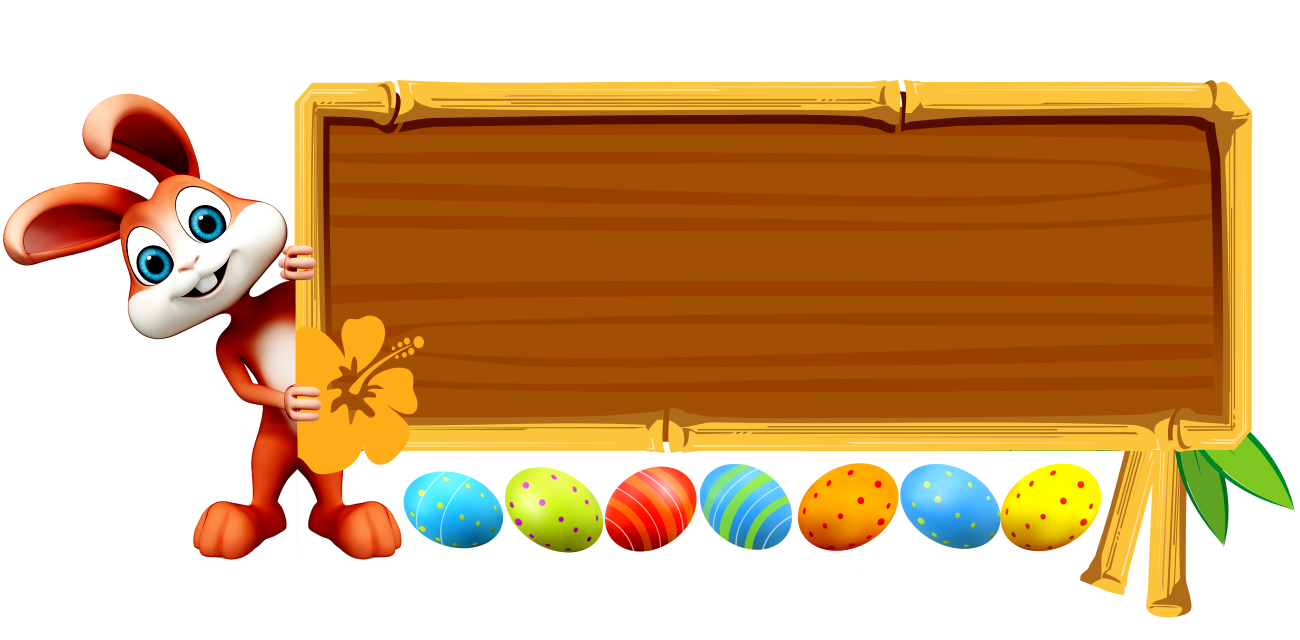
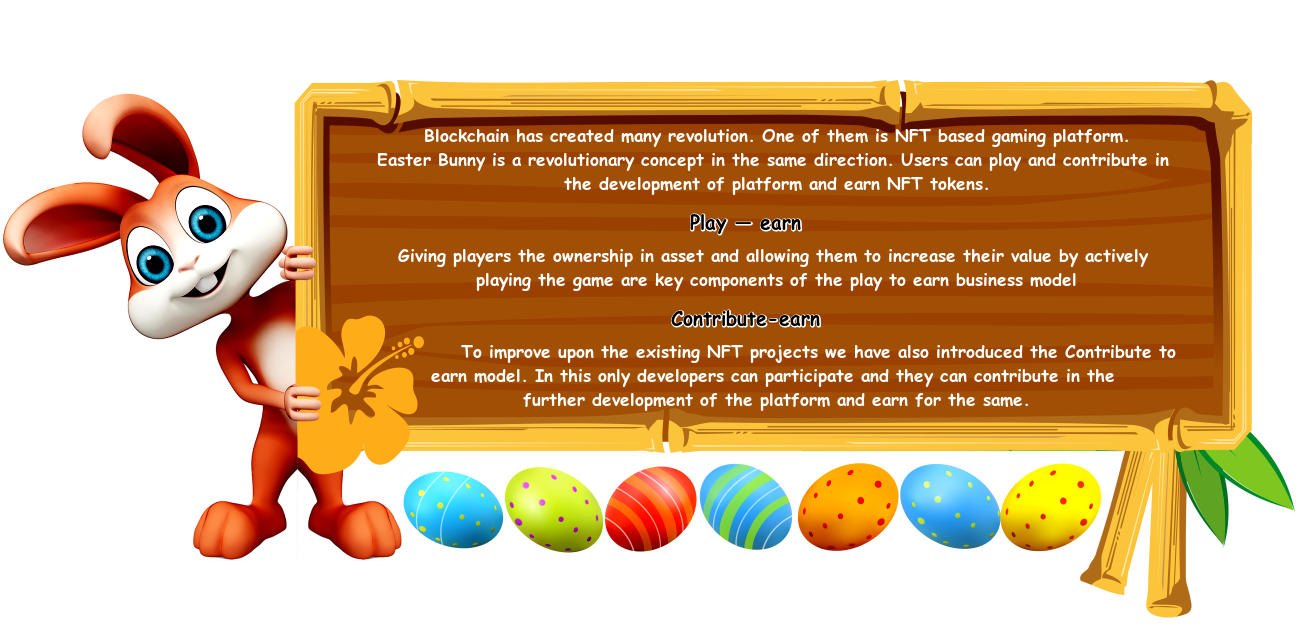
ok

Changed region(s): [[0.2769, 0.1875, 0.9231, 0.6562]]

diff --git a/css/style.css b/css/style.css
@@ -418,9 +418,9 @@ body {
 
 .nft-display,
 .gameplay {
-  margin-top: 20vh;
+  height: 100vh;
 }
-.gamerules,
+
 .discovery {
   margin-top: 10vh;
 }
@@ -470,19 +470,27 @@ body {
 } */
 
 .left-display-container {
-  background: url("../img/bgboard/1300x640\ new.png") no-repeat center
-    center/contain;
+  /* background: url("../img/bgboard/1300x640\ new.png") no-repeat center
+    center/contain; */
+  /* background: url("../img/bgboard/640x1300.png") no-repeat center center/contain; */
   width: 100%;
   height: fit-content;
   display: flex;
   flex-direction: column;
   align-items: center;
 }
+.left-display-container img {
+  margin-right: 10%;
+}
+.left-display {
+  display: none;
+}
 .nft-display .left-display {
   /* border: 20px solid var(--btn-hover); */
   border-radius: 20px;
   padding: 20px;
   width: 60%;
+  width: 50%;
   margin-top: 40px;
   /* background-color: #ffffff; */
   /* background-color: #902b0028; */
@@ -510,38 +518,61 @@ body {
 .discovery {
   position: relative;
 }
+.gameplay col {
+  display: flex;
+  flex-direction: column;
+  width: 100%;
+}
+.gameplay h1 {
+  font-size: 50px;
+  margin-bottom: 30px;
+  text-shadow: 0 0 white;
+}
+.gameplay {
+  display: flex;
+  flex-direction: column;
+  align-items: center;
+  height: 100vh;
+  background: linear-gradient(90deg, #d64ca8 0%, #6f42c1 100%);
+  background: linear-gradient(90deg, var(--btn) 0%, var(--btn-hover) 100%);
+}
+.gamerules {
+  display: flex;
+  flex-direction: column;
+  align-items: center;
+}
 .gamerules .card {
-  /* margin-right: 50px; */
   margin: 15px 10px;
-  width: 80%;
+  width: 100%;
 }
 .gamerules .card .icon {
-  /* width: 50px; */
   margin: 20px;
   padding: 10px;
 }
 .gamerules .card .heading {
-  font-size: 24px;
+  font-size: 45px;
   font-weight: 600;
   color: var(--btn);
+  text-shadow: 0 0 white;
 }
 
 .gamerules .card .para {
-  font-size: 16px;
+  font-size: 25px;
   font-weight: 400;
+  color: white;
+  /* text-shadow: 0 0 white; */
+}
+
+.gamerules .watch-now-video {
+  font-size: 35px;
 }
 /* gameplay ends */
 
 /* discovery */
 .bg-image-2 {
   background: url("../img/roadmap2.png") no-repeat center center/cover;
-  /* background: url("../img/easterbunny.jpeg") no-repeat center center/cover; */
   width: 100vw;
-  /* height: 100vh; */
-  /* height: auto; */
   height: 65vw;
-  /* opacity: 0.3; */
-  /* position: absolute; */
   top: 0;
   left: 0;
   z-index: -1;
@@ -917,6 +948,12 @@ footer .social-media a {
     display: flex;
     flex-direction: column;
     align-items: center;
+  }
+  .left-display {
+    display: block;
+  }
+  .left-display-container img {
+    display: none;
   }
   .right-display-container {
     background: url("../img/bgboard/512x148.png") no-repeat center

diff --git a/index.html b/index.html
@@ -11,7 +11,7 @@
       integrity="sha512-1PKOgIY59xJ8Co8+NE6FZ+LOAZKjy+KY8iq0G4B3CyeY6wYHN3yt9PW0XpSriVlkMXe40PTKnXrLnZ9+fkDaog=="
       crossorigin="anonymous"
     />
-    <link rel="stylesheet" href="./css/style.css?v=1.1.6" />
+    <link rel="stylesheet" href="./css/style.css?v=1.1.7" />
     <link rel="stylesheet" href="./css/sliderstyle.css?v=1.0.5" />
     <link
       rel="stylesheet"
@@ -142,14 +142,14 @@
       <div class="col nft-display">
         <div class="right-display-container">
           <div class="right-display">
-            <h1>Unlock all the mysterious of Easter Bunny</h1>
+            <h1>What is Easter Bunny?</h1>
+            <!-- <h1>Unlock all the mysterious of Easter Bunny</h1> -->
           </div>
         </div>
 
         <div class="left-display-container">
+          <img src="./img/bgboard/640x1300.png" alt="" />
           <div class="left-display col m-container">
-            <h2>What is Easter Bunny?</h2>
-            <!-- <br /> -->
             <h3>
               Blockchain has created many revolution. One of them is NFT based
               gaming platform. <br />
@@ -157,17 +157,13 @@
               Users can play and contribute in the development of platform and
               earn NFT tokens.
             </h3>
-            <!-- <br /> -->
             <h2>Play — earn</h2>
-            <!-- <br /> -->
             <h3>
               Giving players the ownership in asset and allowing them to
               increase their value by actively playing the game are key
               components of the play to earn business model
             </h3>
-            <!-- <br /> -->
             <h2>Contribute-earn</h2>
-            <!-- <br /> -->
             <h3>
               To improve upon the existing NFT projects we have also introduced
               the Contribute to earn model. In this only developers can
@@ -214,7 +210,7 @@
                   </div>
                 </div>
 
-                <div style="margin: 20px 10px 10px 10px">
+                <div class="watch-now-video">
                   <a
                     href="/"
                     target="_blank"
